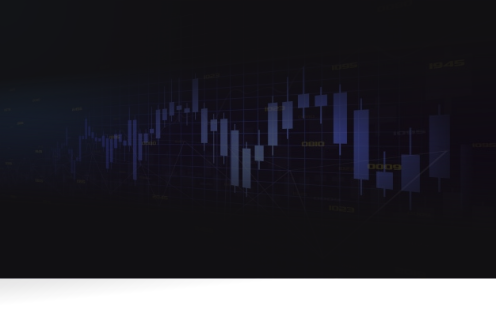
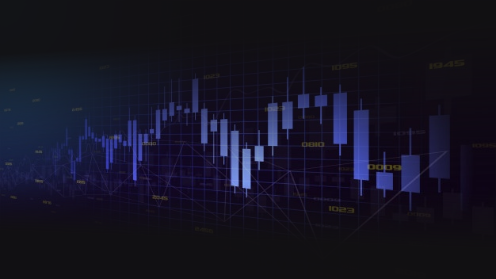
cambio footer y nav estático

diff --git a/css/styles.css b/css/styles.css
@@ -18,7 +18,7 @@ Table Of Contents:
 Colors:
 
 - Text, navbar links - white #f1f1f8
-- Buttons, bullets, icons - turquoise #00c9db
+- Buttons, bullets, icons - turquoise #4187bcff 
 - Navbar - navy #4633af
 - Backgrounds - dark denim #262431
 - Backgrounds - denim #2f2c3d
@@ -104,7 +104,7 @@ a:hover {
 }
 
 a.turquoise {
-  color: #00c9db;
+  color: #4187bcff;
 }
 
 a.white {
@@ -122,9 +122,9 @@ a.white {
 .btn-solid-reg {
   display: inline-block;
   padding: 1.1875rem 2.125rem 1.1875rem 2.125rem;
-  border: 0.125rem solid #00c9db;
+  border: 0.125rem solid #4187bcff;
   border-radius: 2rem;
-  background-color: #00c9db;
+  background-color: #4187bcff;
   color: #fff;
   font: 700 0.75rem/0 "Montserrat", sans-serif;
   text-decoration: none;
@@ -133,7 +133,7 @@ a.white {
 
 .btn-solid-reg:hover {
   background-color: transparent;
-  color: #00c9db;
+  color: #4187bcff;
   text-decoration: none;
 }
 
@@ -152,7 +152,7 @@ a.white {
 
 .btn-solid-lg:hover {
   background-color: transparent;
-  color: #00c9db;
+  color: #4187bcff;
   text-decoration: none;
 }
 
@@ -170,17 +170,17 @@ a.white {
 .btn-outline-reg {
   display: inline-block;
   padding: 1.1875rem 2.125rem 1.1875rem 2.125rem;
-  border: 0.125rem solid #00c9db;
+  border: 0.125rem solid #4187bcff;
   border-radius: 2rem;
   background-color: transparent;
-  color: #00c9db;
+  color: #4187bcff;
   font: 700 0.75rem/0 "Montserrat", sans-serif;
   text-decoration: none;
   transition: all 0.2s;
 }
 
 .btn-outline-reg:hover {
-  background-color: #00c9db;
+  background-color: #4187bcff;
   color: #fff;
   text-decoration: none;
 }
@@ -188,17 +188,17 @@ a.white {
 .btn-outline-lg {
   display: inline-block;
   padding: 1.375rem 2.625rem 1.375rem 2.625rem;
-  border: 0.125rem solid #00c9db;
+  border: 0.125rem solid #4187bcff;
   border-radius: 2rem;
   background-color: transparent;
-  color: #00c9db;
+  color: #4187bcff;
   font: 700 0.75rem/0 "Montserrat", sans-serif;
   text-decoration: none;
   transition: all 0.2s;
 }
 
 .btn-outline-lg:hover {
-  background-color: #00c9db;
+  background-color: #4187bcff;
   color: #fff;
   text-decoration: none;
 }
@@ -206,17 +206,17 @@ a.white {
 .btn-outline-sm {
   display: inline-block;
   padding: 1rem 1.625rem 0.875rem 1.625rem;
-  border: 0.125rem solid #00c9db;
+  border: 0.125rem solid #4187bcff;
   border-radius: 2rem;
   background-color: transparent;
-  color: #00c9db;
+  color: #4187bcff;
   font: 700 0.625rem/0 "Montserrat", sans-serif;
   text-decoration: none;
   transition: all 0.2s;
 }
 
 .btn-outline-sm:hover {
-  background-color: #00c9db;
+  background-color: #4187bcff;
   color: #fff;
   text-decoration: none;
 }
@@ -379,7 +379,7 @@ input[type="checkbox"] {
 
 .form-control-submit-button:hover {
   background-color: transparent;
-  color: #00c9db;
+  color: #4187bcff;
 }
 
 /* Form Success And Error Message Formatting */
@@ -729,7 +729,7 @@ input[type="checkbox"] {
 }
 
 .navbar-custom .dropdown-item:hover .item-text {
-  color: #00c9db;
+  color: #4187bcff;
 }
 
 .navbar-custom .dropdown-items-divide-hr {
@@ -1221,7 +1221,7 @@ input[type="checkbox"] {
   margin-bottom: 1.125rem;
   margin-left: 0;
   border: 0;
-  background-color: #00c9db;
+  background-color: #4187bcff;
   text-align: left;
 }
 
@@ -1242,7 +1242,7 @@ input[type="checkbox"] {
 .lightbox-basic table .icon-cell {
   width: 2rem;
   padding-right: 0.25rem;
-  color: #00c9db;
+  color: #4187bcff;
   text-align: center;
 }
 
@@ -1251,7 +1251,7 @@ input[type="checkbox"] {
   width: auto;
   height: auto;
   margin-left: 0.375rem;
-  color: #00c9db;
+  color: #4187bcff;
   opacity: 1;
 }
 
@@ -1365,7 +1365,7 @@ input[type="checkbox"] {
 
 .counter #counter .counter-info {
   margin-bottom: 0;
-  color: #00c9db;
+  color: #4187bcff;
   font: 400 0.875rem/1.25rem "Open Sans", sans-serif;
   vertical-align: middle;
 }
@@ -1376,6 +1376,8 @@ input[type="checkbox"] {
 .form {
   padding-top: 6.25rem;
   padding-bottom: 5.625rem;
+  background: url(../images/contact.png) center center no-repeat;
+  background-size: cover;
 }
 
 .form h2 {
@@ -1394,7 +1396,7 @@ input[type="checkbox"] {
 .form .list-unstyled .fab {
   margin-right: 0.5rem;
   font-size: 0.875rem;
-  color: #00c9db;
+  color: #4187bcff;
 }
 
 .form .list-unstyled .fa-phone {
@@ -1406,7 +1408,8 @@ input[type="checkbox"] {
 /**********************/
 .footer {
   padding-top: 5rem;
-  background-color: #262431;
+  background: url(../images/footer.png) center center no-repeat;
+  background-size: cover;
 }
 
 .footer .footer-col {
@@ -1418,7 +1421,7 @@ input[type="checkbox"] {
 }
 
 .footer .list-unstyled .fas {
-  color: #00c9db;
+  color: #4187bcff;
   font-size: 0.5rem;
   line-height: 1.375rem;
 }
@@ -1448,7 +1451,7 @@ input[type="checkbox"] {
 }
 
 .footer .fa-stack:hover .fa-stack-2x {
-  color: #00c9db;
+  color: #4187bcff;
 }
 
 /*************************/
@@ -1457,7 +1460,7 @@ input[type="checkbox"] {
 .copyright {
   padding-top: 1rem;
   padding-bottom: 0.5rem;
-  background-color: #262431;
+  background-color: #0f1d33;
   text-align: center;
 }
 
@@ -1478,7 +1481,7 @@ a.back-to-top {
   width: 2.625rem;
   height: 2.625rem;
   border-radius: 1.875rem;
-  background: #00c9db url("../images/up-arrow.png") no-repeat center 47%;
+  background: #4187bcff url("../images/up-arrow.png") no-repeat center 47%;
   background-size: 1.125rem 1.125rem;
   text-indent: -9999px;
 }
@@ -1531,7 +1534,7 @@ a:hover.back-to-top {
 }
 
 .ex-basic-2 .list-unstyled .fas {
-  color: #00c9db;
+  color: #4187bcff;
   font-size: 0.5rem;
   line-height: 1.375rem;
 }
@@ -1618,7 +1621,7 @@ a:hover.back-to-top {
 
   .navbar-custom.top-nav-collapse .nav-item .nav-link:hover,
   .navbar-custom.top-nav-collapse .nav-item .nav-link.active {
-    color: #00c9db;
+    color: #4187bcff;
   }
 
   .navbar-custom .dropdown-menu {
@@ -1788,7 +1791,7 @@ a:hover.back-to-top {
   }
 
   .navbar-custom .fa-stack:hover .fa-stack-1x {
-    color: #00c9db;
+    color: #4187bcff;
   }
   /* end of navigation */
 

diff --git a/index.html b/index.html
@@ -63,7 +63,7 @@
     <!-- end of preloader -->
 
     <!-- Navbar -->
-    <nav class="navbar navbar-expand-md navbar-dark navbar-custom fixed-top">
+    <nav class="navbar navbar-expand-md navbar-dark navbar-custom">
       <!-- Text Logo - Use this if you don't have a graphic logo -->
       <!-- <a class="navbar-brand logo-text page-scroll" href="index.html">Pandapips</a> -->
 
